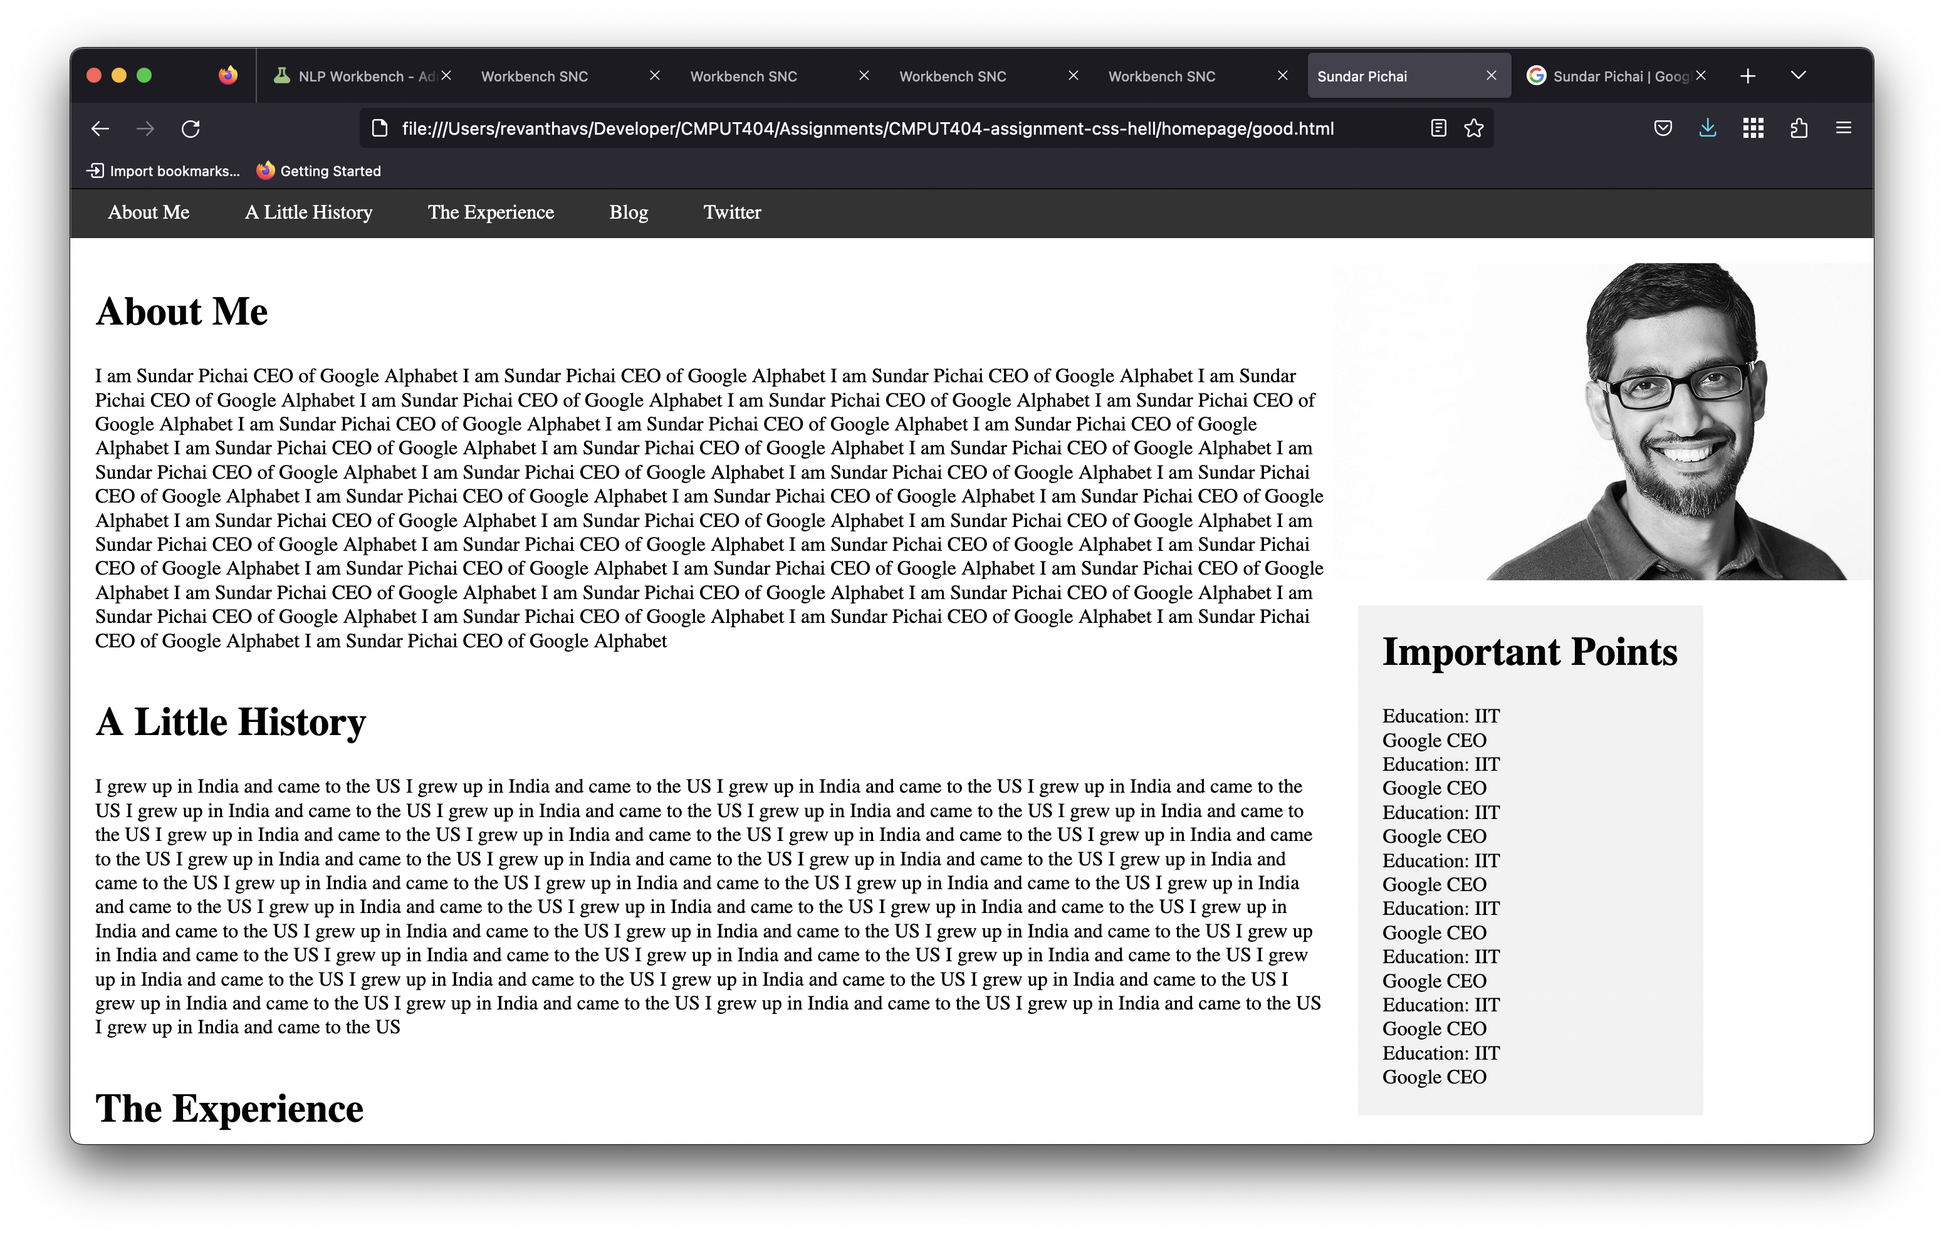
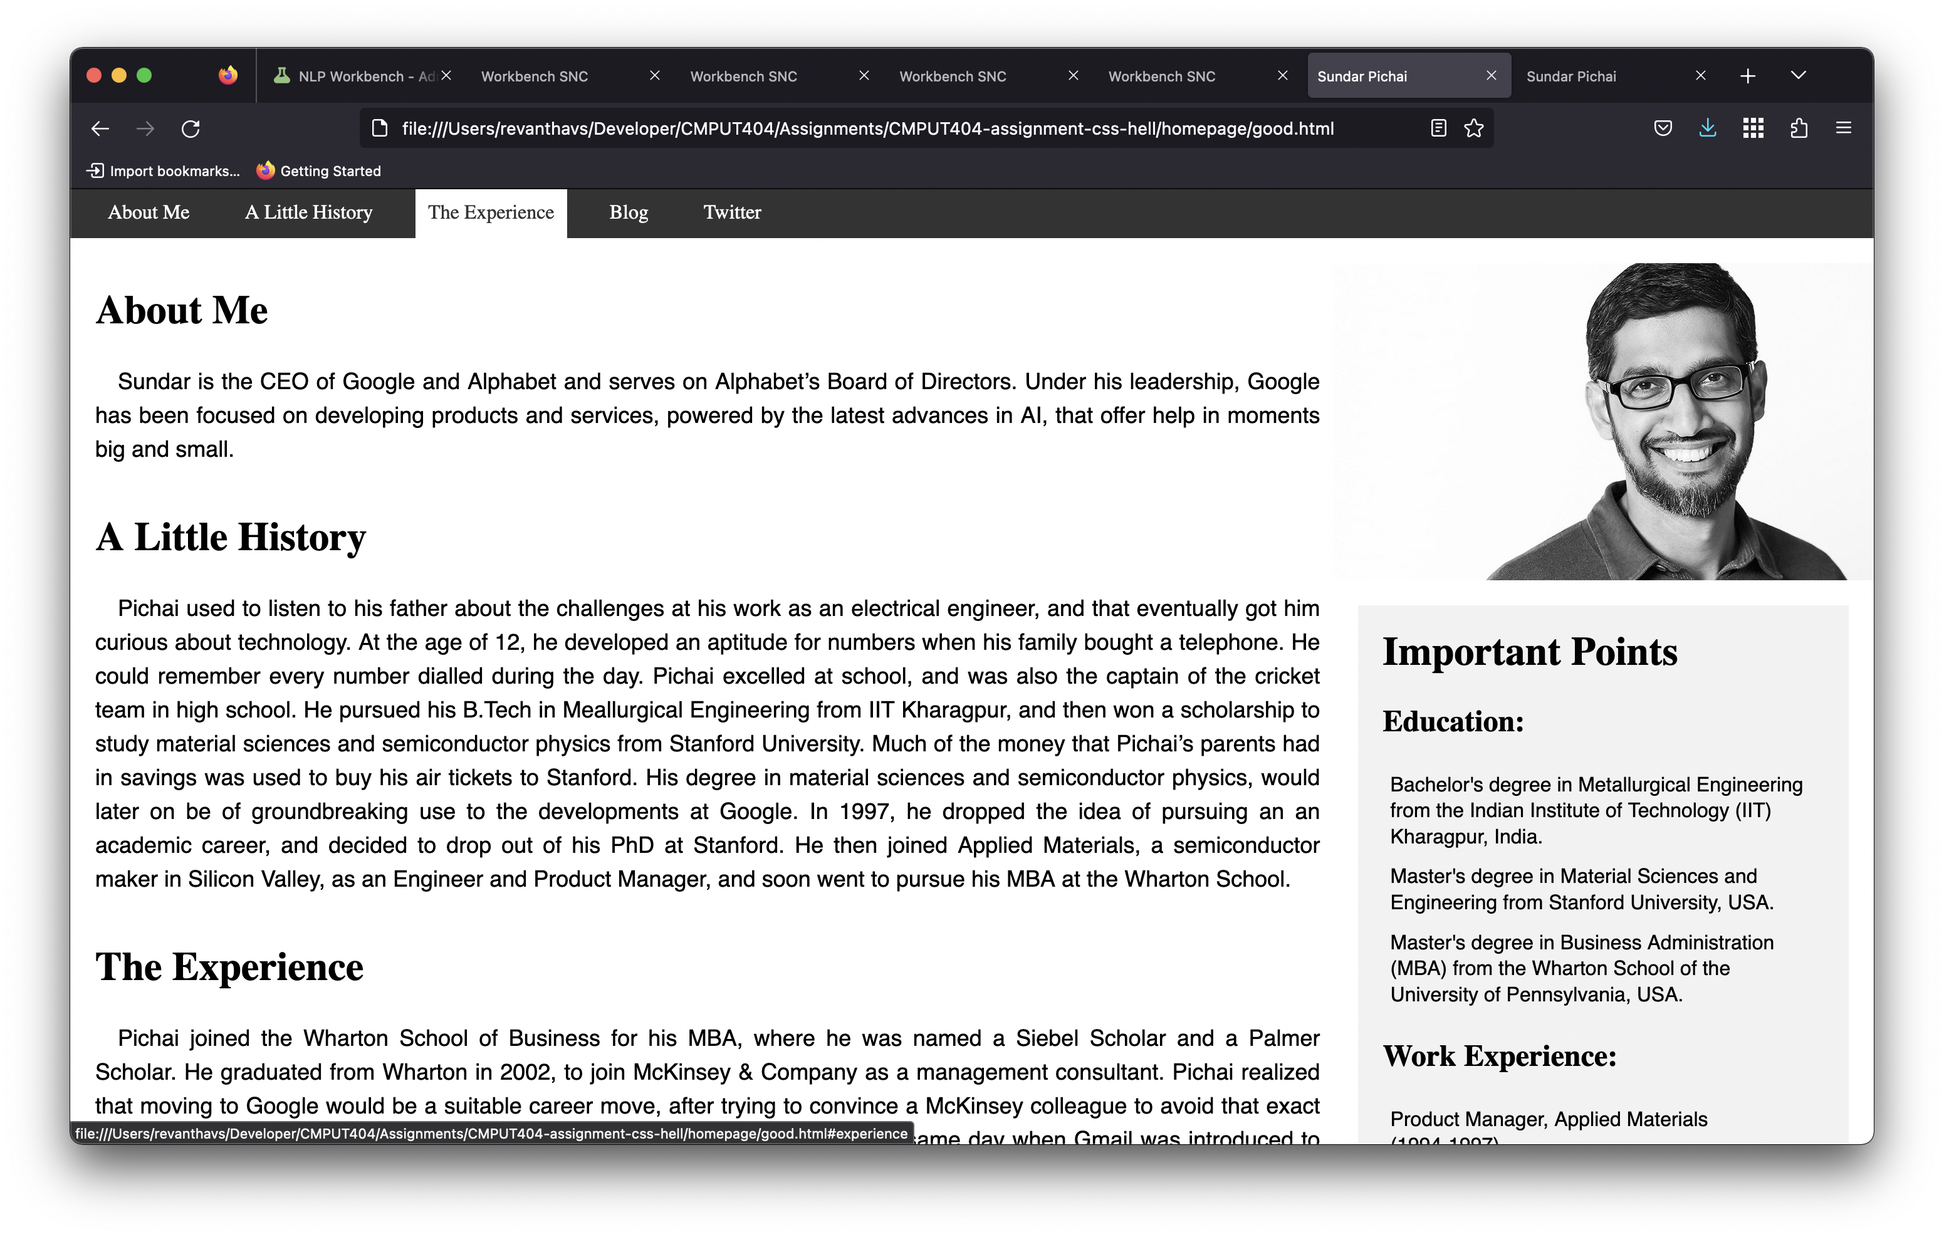
Updated text fields for good and ugly html content

diff --git a/homepage/good.html b/homepage/good.html
@@ -22,38 +22,36 @@
         <img src="vftt-key-sundar pichai.jpeg" alt="Sundar Pichai">
         <div class="sidebar">
             <h1> Important Points</h1>
+            <h2> Education: </h2>
             <ul>
-                <li>Education: IIT</li>
-                <li>Google CEO</li>
-                <li>Education: IIT</li>
-                <li>Google CEO</li>
-                <li>Education: IIT</li>
-                <li>Google CEO</li>
-                <li>Education: IIT</li>
-                <li>Google CEO</li>
-                <li>Education: IIT</li>
-                <li>Google CEO</li>
-                <li>Education: IIT</li>
-                <li>Google CEO</li>
-                <li>Education: IIT</li>
-                <li>Google CEO</li>
-                <li>Education: IIT</li>
-                <li>Google CEO</li>
+                <li> Bachelor's degree in Metallurgical Engineering from the Indian Institute of Technology (IIT) Kharagpur, India.</li>
+                <li> Master's degree in Material Sciences and Engineering from Stanford University, USA.</li>
+                <li> Master's degree in Business Administration (MBA) from the Wharton School of the University of Pennsylvania, USA.</li>
+            </ul>
+            <h2> Work Experience: </h2>
+            <ul>
+                <li>Product Manager, Applied Materials (1994-1997)</li>
+                <li>Management Consultant, McKinsey & Company (1997-2004)</li>
+                <li>Vice President of Product Management, Google (2004-2014)</li>
+                <li>Senior Vice President of Products, Google (2014-2015)</li>
+                <li>CEO, Google (2015-present)</li>
             </ul>
         </div>
     </div>
     <div class="content">
         <div class="aboutme">
             <h1 id="aboutme"> About Me</h1>
-            <p> I am Sundar Pichai CEO of Google Alphabet I am Sundar Pichai CEO of Google Alphabet I am Sundar Pichai CEO of Google Alphabet I am Sundar Pichai CEO of Google Alphabet I am Sundar Pichai CEO of Google Alphabet I am Sundar Pichai CEO of Google Alphabet I am Sundar Pichai CEO of Google Alphabet I am Sundar Pichai CEO of Google Alphabet I am Sundar Pichai CEO of Google Alphabet I am Sundar Pichai CEO of Google Alphabet I am Sundar Pichai CEO of Google Alphabet I am Sundar Pichai CEO of Google Alphabet I am Sundar Pichai CEO of Google Alphabet I am Sundar Pichai CEO of Google Alphabet I am Sundar Pichai CEO of Google Alphabet I am Sundar Pichai CEO of Google Alphabet I am Sundar Pichai CEO of Google Alphabet I am Sundar Pichai CEO of Google Alphabet I am Sundar Pichai CEO of Google Alphabet I am Sundar Pichai CEO of Google Alphabet I am Sundar Pichai CEO of Google Alphabet I am Sundar Pichai CEO of Google Alphabet I am Sundar Pichai CEO of Google Alphabet I am Sundar Pichai CEO of Google Alphabet I am Sundar Pichai CEO of Google Alphabet I am Sundar Pichai CEO of Google Alphabet I am Sundar Pichai CEO of Google Alphabet I am Sundar Pichai CEO of Google Alphabet I am Sundar Pichai CEO of Google Alphabet I am Sundar Pichai CEO of Google Alphabet I am Sundar Pichai CEO of Google Alphabet I am Sundar Pichai CEO of Google Alphabet I am Sundar Pichai CEO of Google Alphabet I am Sundar Pichai CEO of Google Alphabet I am Sundar Pichai CEO of Google Alphabet I am Sundar Pichai CEO of Google Alphabet I am Sundar Pichai CEO of Google Alphabet I am Sundar Pichai CEO of Google Alphabet</p>
+            <p> Sundar is the CEO of Google and Alphabet and serves on Alphabet’s Board of Directors. Under his leadership, Google has been focused on developing products and services, powered by the latest advances in AI, that offer help in moments big and small.</p>
         </div>
         <div class="history">
             <h1 id="history"> A Little History</h1>
-            <p> I grew up in India and came to the US I grew up in India and came to the US I grew up in India and came to the US I grew up in India and came to the US I grew up in India and came to the US I grew up in India and came to the US I grew up in India and came to the US I grew up in India and came to the US I grew up in India and came to the US I grew up in India and came to the US I grew up in India and came to the US I grew up in India and came to the US I grew up in India and came to the US I grew up in India and came to the US I grew up in India and came to the US I grew up in India and came to the US I grew up in India and came to the US I grew up in India and came to the US I grew up in India and came to the US I grew up in India and came to the US I grew up in India and came to the US I grew up in India and came to the US I grew up in India and came to the US I grew up in India and came to the US I grew up in India and came to the US I grew up in India and came to the US I grew up in India and came to the US I grew up in India and came to the US I grew up in India and came to the US I grew up in India and came to the US I grew up in India and came to the US I grew up in India and came to the US I grew up in India and came to the US I grew up in India and came to the US I grew up in India and came to the US I grew up in India and came to the US I grew up in India and came to the US I grew up in India and came to the US I grew up in India and came to the US I grew up in India and came to the US</p>
+            <p> Pichai used to listen to his father about the challenges at his  work as an electrical engineer, and that eventually got him curious about technology. At the age of 12, he developed an aptitude for numbers when his family bought a telephone. He could remember every number dialled during the day. Pichai excelled at school, and was also the captain of the cricket team in high school. He pursued his B.Tech in Meallurgical Engineering from IIT Kharagpur, and then won a scholarship to study material sciences and semiconductor physics from Stanford University. Much of the money that Pichai’s parents had in savings was used to buy his air tickets to Stanford. His degree in material sciences and semiconductor physics, would later on be of groundbreaking use to the developments at Google. In 1997, he dropped the idea of pursuing an an academic career, and decided to drop out of his PhD at Stanford. He then joined Applied Materials, a semiconductor maker in Silicon Valley, as an Engineer and Product Manager, and soon went to pursue his MBA at the Wharton School.</p>
         </div>
         <div class="experience">
             <h1 id="experience"> The Experience</h1>
-            <p> I have been working at Google for over 15 years I have been working at Google for over 15 years I have been working at Google for over 15 years I have been working at Google for over 15 years I have been working at Google for over 15 years I have been working at Google for over 15 years I have been working at Google for over 15 years I have been working at Google for over 15 years I have been working at Google for over 15 years I have been working at Google for over 15 years I have been working at Google for over 15 years</p>
+            <p> Pichai joined the Wharton School of Business for his MBA, where he was named a Siebel Scholar and a Palmer Scholar. He graduated from Wharton in 2002, to join McKinsey & Company as a management consultant. Pichai realized that moving to Google would be a suitable career move, after trying to convince a McKinsey colleague to avoid that exact thing. Pichai joined Google on April Fools’ Day in 2004. Interestingly, it was the same day when Gmail was introduced to the world. </p>
+            <p> Pichai joined Google as a soft-spoken manager, to work on Google’s search toolbar. The toolbar was made with a goal to give Internet Explorer and Firefox users an easy access to Google search. The toolbar’s success motivated Pichai to think of Google having its own web browser. Eric Schmidt, the then-CEO of Google, thought that it wasn’t worth the cost. However, Pichai had immense belief in the idea and ultimately convinced the founders of Google, Larry Page and Sergey Brin, to launch Google’s own web browser, called Google Chrome. Pichai led the launch of Chrome that went on to become the best web browser in the world, surpassing both Internet Explorer and Firefox. This earned Pichai worldwide recognition in 2008, and he became the Vice President of product development at Google. From 2008 to 2013, Larry Page ensured that Pichai’s rise in Google was rapid. In 2011, Pichai was considered to head product development at Twitter, but he decided to stay with Google. In 2013, when Android creator Andy Rubin left for Google’s robotics project, Pichai was asked to take over Android too. Pichai led the rapid growth of Android’s app ecosystem. In 2014, Pichai almost became the third CEO of Microsoft, but Google managed to retain him.</p>
+            <p> Pichai was not just a business savvy professional with great technical skills, but an excellent leader and diplomat too. He is known for building strong teams, avoiding office politics, and respecting everyone’s opinion. When Google decided to form its parent company, Alphabet Inc., Sundar Pichai succeeded Larry Page as the CEO of Google. Pichai, the man behind Google Chrome, now heads all products at Google, including Ads, Android, Apps, Maps, Search and YouTube.</p>
         </div>
     </div>
 </body>

diff --git a/homepage/ugly.html b/homepage/ugly.html
@@ -22,38 +22,36 @@
         <img src="vftt-key-sundar pichai.jpeg" alt="Sundar Pichai">
         <div class="sidebar">
             <h1> Important Points</h1>
+            <h2> Education: </h2>
             <ul>
-                <li>Education: IIT</li>
-                <li>Google CEO</li>
-                <li>Education: IIT</li>
-                <li>Google CEO</li>
-                <li>Education: IIT</li>
-                <li>Google CEO</li>
-                <li>Education: IIT</li>
-                <li>Google CEO</li>
-                <li>Education: IIT</li>
-                <li>Google CEO</li>
-                <li>Education: IIT</li>
-                <li>Google CEO</li>
-                <li>Education: IIT</li>
-                <li>Google CEO</li>
-                <li>Education: IIT</li>
-                <li>Google CEO</li>
+                <li> Bachelor's degree in Metallurgical Engineering from the Indian Institute of Technology (IIT) Kharagpur, India.</li>
+                <li> Master's degree in Material Sciences and Engineering from Stanford University, USA.</li>
+                <li> Master's degree in Business Administration (MBA) from the Wharton School of the University of Pennsylvania, USA.</li>
+            </ul>
+            <h2> Work Experience: </h2>
+            <ul>
+                <li>Product Manager, Applied Materials (1994-1997)</li>
+                <li>Management Consultant, McKinsey & Company (1997-2004)</li>
+                <li>Vice President of Product Management, Google (2004-2014)</li>
+                <li>Senior Vice President of Products, Google (2014-2015)</li>
+                <li>CEO, Google (2015-present)</li>
             </ul>
         </div>
     </div>
     <div class="content">
         <div class="aboutme">
             <h1 id="aboutme"> About Me</h1>
-            <p> I am Sundar Pichai CEO of Google Alphabet I am Sundar Pichai CEO of Google Alphabet I am Sundar Pichai CEO of Google Alphabet I am Sundar Pichai CEO of Google Alphabet I am Sundar Pichai CEO of Google Alphabet I am Sundar Pichai CEO of Google Alphabet I am Sundar Pichai CEO of Google Alphabet I am Sundar Pichai CEO of Google Alphabet I am Sundar Pichai CEO of Google Alphabet I am Sundar Pichai CEO of Google Alphabet I am Sundar Pichai CEO of Google Alphabet I am Sundar Pichai CEO of Google Alphabet I am Sundar Pichai CEO of Google Alphabet I am Sundar Pichai CEO of Google Alphabet I am Sundar Pichai CEO of Google Alphabet I am Sundar Pichai CEO of Google Alphabet I am Sundar Pichai CEO of Google Alphabet I am Sundar Pichai CEO of Google Alphabet I am Sundar Pichai CEO of Google Alphabet I am Sundar Pichai CEO of Google Alphabet I am Sundar Pichai CEO of Google Alphabet I am Sundar Pichai CEO of Google Alphabet I am Sundar Pichai CEO of Google Alphabet I am Sundar Pichai CEO of Google Alphabet I am Sundar Pichai CEO of Google Alphabet I am Sundar Pichai CEO of Google Alphabet I am Sundar Pichai CEO of Google Alphabet I am Sundar Pichai CEO of Google Alphabet I am Sundar Pichai CEO of Google Alphabet I am Sundar Pichai CEO of Google Alphabet I am Sundar Pichai CEO of Google Alphabet I am Sundar Pichai CEO of Google Alphabet I am Sundar Pichai CEO of Google Alphabet I am Sundar Pichai CEO of Google Alphabet I am Sundar Pichai CEO of Google Alphabet I am Sundar Pichai CEO of Google Alphabet I am Sundar Pichai CEO of Google Alphabet I am Sundar Pichai CEO of Google Alphabet</p>
+            <p> Sundar is the CEO of Google and Alphabet and serves on Alphabet’s Board of Directors. Under his leadership, Google has been focused on developing products and services, powered by the latest advances in AI, that offer help in moments big and small.</p>
         </div>
         <div class="history">
             <h1 id="history"> A Little History</h1>
-            <p> I grew up in India and came to the US I grew up in India and came to the US I grew up in India and came to the US I grew up in India and came to the US I grew up in India and came to the US I grew up in India and came to the US I grew up in India and came to the US I grew up in India and came to the US I grew up in India and came to the US I grew up in India and came to the US I grew up in India and came to the US I grew up in India and came to the US I grew up in India and came to the US I grew up in India and came to the US I grew up in India and came to the US I grew up in India and came to the US I grew up in India and came to the US I grew up in India and came to the US I grew up in India and came to the US I grew up in India and came to the US I grew up in India and came to the US I grew up in India and came to the US I grew up in India and came to the US I grew up in India and came to the US I grew up in India and came to the US I grew up in India and came to the US I grew up in India and came to the US I grew up in India and came to the US I grew up in India and came to the US I grew up in India and came to the US I grew up in India and came to the US I grew up in India and came to the US I grew up in India and came to the US I grew up in India and came to the US I grew up in India and came to the US I grew up in India and came to the US I grew up in India and came to the US I grew up in India and came to the US I grew up in India and came to the US I grew up in India and came to the US</p>
+            <p> Pichai used to listen to his father about the challenges at his  work as an electrical engineer, and that eventually got him curious about technology. At the age of 12, he developed an aptitude for numbers when his family bought a telephone. He could remember every number dialled during the day. Pichai excelled at school, and was also the captain of the cricket team in high school. He pursued his B.Tech in Meallurgical Engineering from IIT Kharagpur, and then won a scholarship to study material sciences and semiconductor physics from Stanford University. Much of the money that Pichai’s parents had in savings was used to buy his air tickets to Stanford. His degree in material sciences and semiconductor physics, would later on be of groundbreaking use to the developments at Google. In 1997, he dropped the idea of pursuing an an academic career, and decided to drop out of his PhD at Stanford. He then joined Applied Materials, a semiconductor maker in Silicon Valley, as an Engineer and Product Manager, and soon went to pursue his MBA at the Wharton School.</p>
         </div>
         <div class="experience">
             <h1 id="experience"> The Experience</h1>
-            <p> I have been working at Google for over 15 years I have been working at Google for over 15 years I have been working at Google for over 15 years I have been working at Google for over 15 years I have been working at Google for over 15 years I have been working at Google for over 15 years I have been working at Google for over 15 years I have been working at Google for over 15 years I have been working at Google for over 15 years I have been working at Google for over 15 years I have been working at Google for over 15 years</p>
+            <p> Pichai joined the Wharton School of Business for his MBA, where he was named a Siebel Scholar and a Palmer Scholar. He graduated from Wharton in 2002, to join McKinsey & Company as a management consultant. Pichai realized that moving to Google would be a suitable career move, after trying to convince a McKinsey colleague to avoid that exact thing. Pichai joined Google on April Fools’ Day in 2004. Interestingly, it was the same day when Gmail was introduced to the world. </p>
+            <p> Pichai joined Google as a soft-spoken manager, to work on Google’s search toolbar. The toolbar was made with a goal to give Internet Explorer and Firefox users an easy access to Google search. The toolbar’s success motivated Pichai to think of Google having its own web browser. Eric Schmidt, the then-CEO of Google, thought that it wasn’t worth the cost. However, Pichai had immense belief in the idea and ultimately convinced the founders of Google, Larry Page and Sergey Brin, to launch Google’s own web browser, called Google Chrome. Pichai led the launch of Chrome that went on to become the best web browser in the world, surpassing both Internet Explorer and Firefox. This earned Pichai worldwide recognition in 2008, and he became the Vice President of product development at Google. From 2008 to 2013, Larry Page ensured that Pichai’s rise in Google was rapid. In 2011, Pichai was considered to head product development at Twitter, but he decided to stay with Google. In 2013, when Android creator Andy Rubin left for Google’s robotics project, Pichai was asked to take over Android too. Pichai led the rapid growth of Android’s app ecosystem. In 2014, Pichai almost became the third CEO of Microsoft, but Google managed to retain him.</p>
+            <p> Pichai was not just a business savvy professional with great technical skills, but an excellent leader and diplomat too. He is known for building strong teams, avoiding office politics, and respecting everyone’s opinion. When Google decided to form its parent company, Alphabet Inc., Sundar Pichai succeeded Larry Page as the CEO of Google. Pichai, the man behind Google Chrome, now heads all products at Google, including Ads, Android, Apps, Maps, Search and YouTube.</p>
         </div>
     </div>
 </body>

diff --git a/homepage/good.css b/homepage/good.css
@@ -7,8 +7,26 @@ body {
     display: flex;
     /* flex-direction: row-reverse; */
     flex-direction: column;
-    align-items: flex-start;
+    /* align-items: flex-start; */
+    align-items: flex-end;
     float: right;
+}
+
+.content h1{
+    font-weight: 700;
+    line-height: 1.5; 
+    margin-top: .5em; 
+    margin-bottom: .5em; 
+    text-align: justify;
+}
+
+.content p{
+    text-indent: 1em;
+    line-height: 1.5;
+    font-family: sans-serif;
+    text-align: justify;
+    font-size: large;
+    margin-right: 10px;
 }
 
 .image img {
@@ -66,9 +84,6 @@ body {
 .image .sidebar {
     margin: 20px;
     padding: 20px;
-    /* max-width: 60%; */
-    /* float: right; */
-    /* height: auto; */
     background-color: #F2F2F2;
 }
 
@@ -80,4 +95,11 @@ body {
     margin: 0;
     padding: 0;
     list-style: none;
+    font-family: sans-serif;
+}
+
+.image .sidebar li{
+    margin: 1px;
+    padding: 5px;
+    line-height: 1.3;
 }
